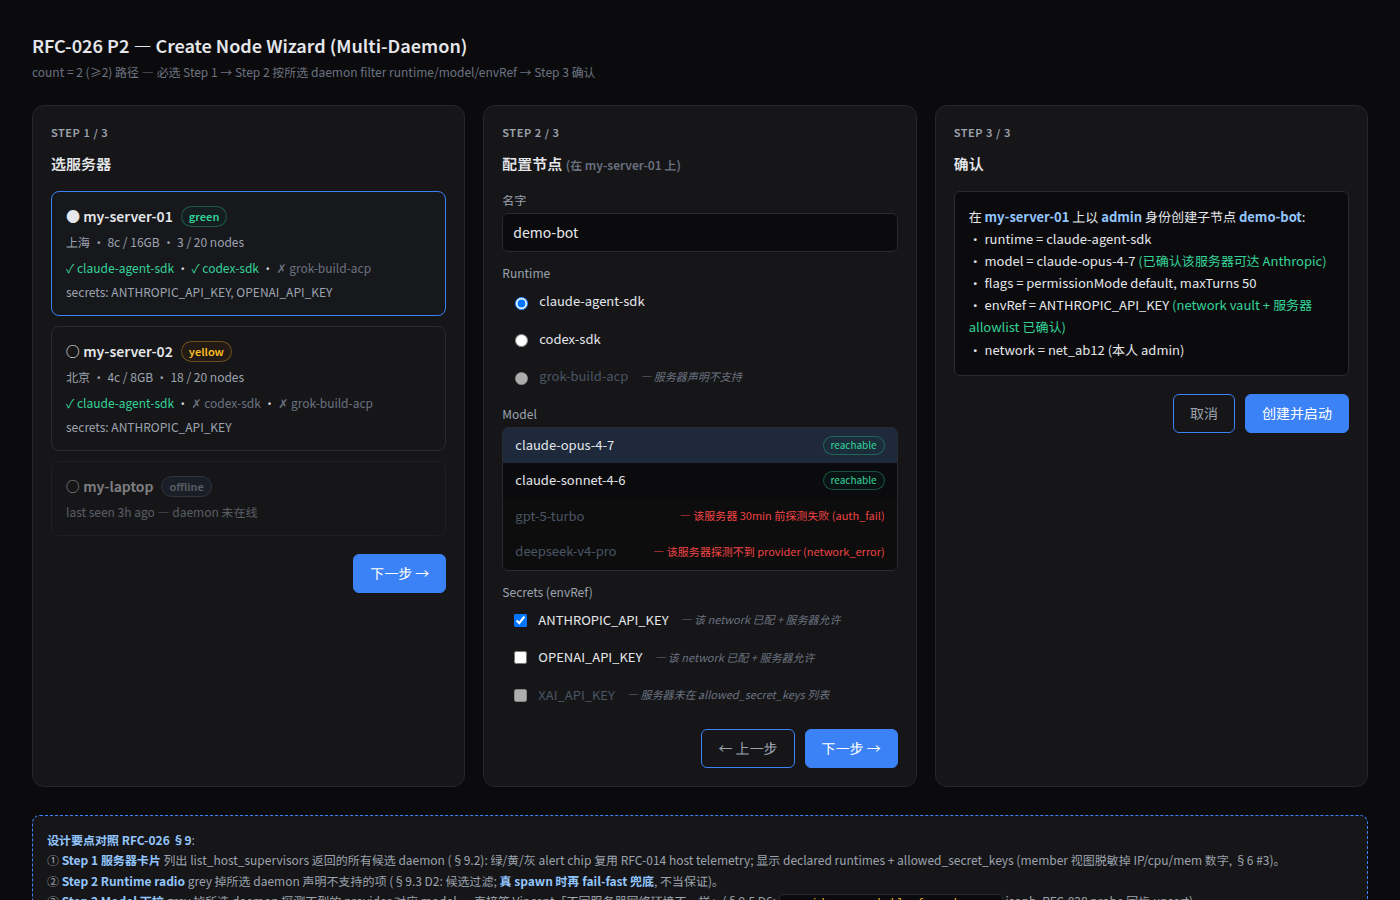
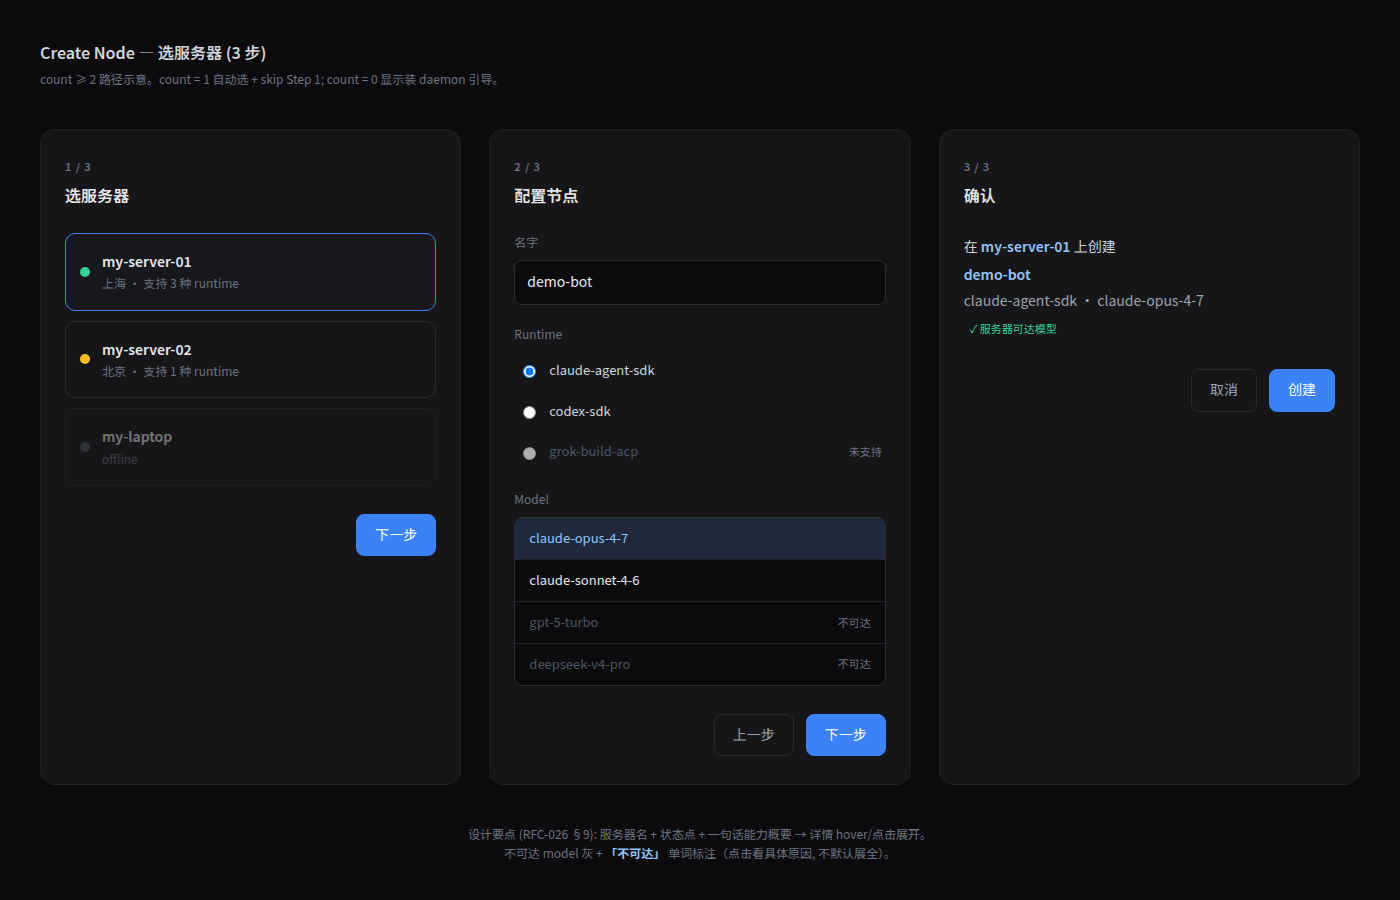
docs(rfc-026 v5): wizard mockup v2 — Vincent ask 「搞的简洁点」
v1 mockup had too much info per card (runtimes list + secrets list +
telemetry numbers + alert chip + node count all visible). Vincent
approved direction but asked for visual精简.

v2 changes:
  - Server card: name + status dot + one-liner ("支持 N 种 runtime")
    only. Telemetry IP/cpu/mem moved to second-tier (hover/click).
  - Runtime radio: unsupported tooltip shortened from
    "服务器声明不支持" to one word "未支持".
  - Model dropdown: reachable items shown plainly (no extra chip),
    unreachable items shown with "不可达" single-word marker
    (detailed reason auth_fail/network_error/timeout moved to click
    expand, not default tooltip).
  - Step 3 confirm: 3 lines instead of 5-line bullet summary.
  - More whitespace (panel padding 28px, gap 28px, fewer borders).
  - CSS grid auto-stacks on narrow viewport (mobile Vincent).
  - Annotation block at bottom shortened to 2-line designer note.

§9.4 RFC text added explicit「视觉精简原则」block citing Vincent's
feedback. PNG re-rendered 1400x900.

D1-D6 设计 + 三态流不变, 只视觉精简。

diff --git a/docs/rfcs/assets/rfc-026-p2-wizard-mockup.html b/docs/rfcs/assets/rfc-026-p2-wizard-mockup.html
@@ -2,253 +2,196 @@
 <html lang="zh">
 <head>
 <meta charset="utf-8">
-<title>RFC-026 P2 — Create Node Wizard Mockup</title>
+<title>RFC-026 P2 — Create Node Wizard Mockup (v2 simplified)</title>
 <style>
   * { box-sizing: border-box; }
   body {
-    margin: 0; padding: 32px;
-    font: 14px/1.5 -apple-system, "Segoe UI", Roboto, "Microsoft YaHei", sans-serif;
+    margin: 0; padding: 40px;
+    font: 14px/1.6 -apple-system, "Segoe UI", Roboto, "Microsoft YaHei", sans-serif;
     background: #0b0b0d; color: #e5e7eb;
   }
-  h1 { font-size: 18px; font-weight: 600; margin: 0 0 4px; }
-  .subtitle { color: #6b7280; font-size: 12px; margin-bottom: 24px; }
-  .row { display: grid; grid-template-columns: 1fr 1fr 1fr; gap: 18px; }
+  h1 { font-size: 16px; font-weight: 600; margin: 0 0 4px; color: #d1d5db; }
+  .sub { color: #6b7280; font-size: 12px; margin-bottom: 40px; }
+  .row { display: grid; grid-template-columns: 1fr 1fr 1fr; gap: 28px; }
   .panel {
-    background: #161618; border: 1px solid #26262b; border-radius: 12px;
-    padding: 18px;
+    background: #161618; border: 1px solid #1f1f24; border-radius: 14px;
+    padding: 28px 24px;
   }
-  .step-label {
-    color: #9ca3af; font-size: 11px; font-weight: 600;
-    letter-spacing: 0.05em; text-transform: uppercase;
-    margin-bottom: 12px;
+  .step {
+    color: #6b7280; font-size: 11px; font-weight: 600;
+    letter-spacing: 0.08em; margin-bottom: 8px;
   }
-  .step-title { font-size: 15px; font-weight: 600; margin-bottom: 16px; }
-  /* Server card */
-  .server-card {
-    border: 1px solid #2a2a30; border-radius: 8px; padding: 14px;
-    margin-bottom: 10px; cursor: pointer; transition: border-color .15s;
+  .step-title { font-size: 16px; font-weight: 600; margin-bottom: 24px; }
+
+  /* Server pick — minimal cards */
+  .srv {
+    display: flex; align-items: center; gap: 12px;
+    padding: 16px 14px; border-radius: 10px;
+    border: 1px solid #2a2a30; margin-bottom: 10px;
+    cursor: pointer; transition: border-color .15s;
   }
-  .server-card:hover { border-color: #3b82f6; }
-  .server-card.selected { border-color: #3b82f6; background: #1e293b22; }
-  .server-card.dim { opacity: 0.5; cursor: not-allowed; }
-  .server-name { font-weight: 600; display: flex; align-items: center; gap: 8px; }
-  .chip {
-    font-size: 11px; padding: 1px 7px; border-radius: 999px;
-    border: 1px solid;
+  .srv:hover { border-color: #4b5563; }
+  .srv.on { border-color: #3b82f6; background: #1e293b22; }
+  .srv.off { opacity: 0.45; cursor: not-allowed; }
+  .dot {
+    width: 10px; height: 10px; border-radius: 50%;
+    flex-shrink: 0;
   }
-  .chip.green { color: #34d399; border-color: #34d39955; background: #064e3b22; }
-  .chip.yellow { color: #fbbf24; border-color: #fbbf2455; background: #78350f22; }
-  .chip.gray { color: #9ca3af; border-color: #4b5563; background: #1f2937; }
-  .server-meta { font-size: 12px; color: #9ca3af; margin-top: 6px; }
-  .runtime-list { font-size: 12px; color: #d1d5db; margin-top: 8px; }
-  .runtime-list .ok { color: #34d399; }
-  .runtime-list .bad { color: #6b7280; }
+  .dot.green  { background: #34d399; }
+  .dot.yellow { background: #fbbf24; }
+  .dot.gray   { background: #4b5563; }
+  .srv-body { flex: 1; min-width: 0; }
+  .srv-name { font-weight: 600; font-size: 14px; }
+  .srv-hint { font-size: 12px; color: #6b7280; margin-top: 2px; }
+
   /* Form */
-  label { display: block; font-size: 12px; color: #9ca3af; margin: 12px 0 4px; }
+  label.fld { display: block; font-size: 12px; color: #6b7280; margin: 20px 0 8px; }
   input[type=text], select {
-    width: 100%; padding: 8px 10px;
+    width: 100%; padding: 10px 12px;
     background: #0b0b0d; color: #e5e7eb;
-    border: 1px solid #2a2a30; border-radius: 6px;
-    font: inherit;
+    border: 1px solid #2a2a30; border-radius: 8px; font: inherit;
   }
-  .radio-group { display: flex; flex-direction: column; gap: 6px; }
-  .radio-group label.opt {
-    display: flex; align-items: center; gap: 8px; cursor: pointer;
-    padding: 6px 8px; border-radius: 6px;
-    color: #e5e7eb; font-size: 13px; margin: 0;
+
+  .options { display: flex; flex-direction: column; gap: 4px; }
+  .opt {
+    display: flex; align-items: center; gap: 10px; cursor: pointer;
+    padding: 8px 4px; color: #d1d5db; font-size: 13px;
   }
-  .radio-group label.opt.disabled {
-    color: #4b5563; cursor: not-allowed;
+  .opt.dis { color: #4b5563; cursor: not-allowed; }
+  .why { font-size: 11px; color: #6b7280; margin-left: auto; }
+
+  .models {
+    border: 1px solid #2a2a30; border-radius: 8px; background: #0b0b0d;
+    overflow: hidden;
   }
-  .tooltip { font-size: 11px; color: #6b7280; margin-left: 4px; font-style: italic; }
-  /* Model dropdown opened state */
-  .dropdown {
-    border: 1px solid #2a2a30; border-radius: 6px; background: #0b0b0d;
-    margin-top: 4px; max-height: 180px; overflow: hidden;
+  .m {
+    padding: 10px 14px; font-size: 13px; cursor: pointer;
+    display: flex; align-items: center; justify-content: space-between;
   }
-  .dropdown .item {
-    padding: 8px 12px; font-size: 13px; cursor: pointer; display: flex;
-    align-items: center; justify-content: space-between;
-  }
-  .dropdown .item.selected { background: #1e293b; }
-  .dropdown .item.disabled { color: #4b5563; cursor: not-allowed; background: #1115; }
-  .dropdown .item .reach-note {
-    font-size: 11px; color: #ef4444;
-  }
-  /* Confirm */
+  .m.on { background: #1e293b; color: #93c5fd; }
+  .m.dis { color: #4b5563; cursor: not-allowed; }
+  .m + .m { border-top: 1px solid #1f1f24; }
+  .m .reason { font-size: 11px; color: #6b7280; }
+
+  /* Step 3 confirm */
   .summary {
-    font-size: 13px; background: #0b0b0d; border: 1px solid #2a2a30;
-    border-radius: 6px; padding: 14px; line-height: 1.7;
+    font-size: 14px; line-height: 1.9; color: #d1d5db;
   }
-  .summary b { color: #93c5fd; }
-  .btns { margin-top: 18px; display: flex; gap: 10px; justify-content: flex-end; }
+  .summary b { color: #93c5fd; font-weight: 600; }
+  .summary .check {
+    color: #34d399; font-size: 11px; margin-left: 6px;
+  }
+
+  .btns {
+    margin-top: 28px; display: flex; gap: 12px; justify-content: flex-end;
+  }
   .btn {
-    padding: 8px 16px; border-radius: 6px; border: 1px solid #3b82f6;
+    padding: 9px 18px; border-radius: 8px; border: 1px solid #3b82f6;
     background: #3b82f6; color: white; font: inherit; cursor: pointer;
   }
-  .btn.secondary { background: transparent; color: #9ca3af; border-color: #3b82f6; }
-  /* annotations */
-  .annot {
-    margin-top: 28px; font-size: 12px; color: #9ca3af;
-    background: #161618; border: 1px dashed #3b82f6; border-radius: 8px;
-    padding: 14px; line-height: 1.7;
+  .btn.ghost {
+    background: transparent; color: #9ca3af; border-color: #2a2a30;
   }
-  .annot b { color: #93c5fd; }
-  .annot code {
-    background: #0b0b0d; border: 1px solid #2a2a30; padding: 1px 5px;
-    border-radius: 4px; font-size: 11px; color: #fbbf24;
+
+  .note {
+    margin-top: 40px; font-size: 12px; color: #6b7280;
+    text-align: center;
   }
+  .note b { color: #93c5fd; }
 </style>
 </head>
 <body>
-<h1>RFC-026 P2 — Create Node Wizard (Multi-Daemon)</h1>
-<div class="subtitle">
-  count = 2 (≥2) 路径 — 必选 Step 1 → Step 2 按所选 daemon filter runtime/model/envRef → Step 3 确认
-</div>
+<h1>Create Node — 选服务器 (3 步)</h1>
+<div class="sub">count ≥ 2 路径示意。count = 1 自动选 + skip Step 1; count = 0 显示装 daemon 引导。</div>
 
 <div class="row">
 
   <!-- ============== STEP 1 ============== -->
   <div class="panel">
-    <div class="step-label">Step 1 / 3</div>
+    <div class="step">1 / 3</div>
     <div class="step-title">选服务器</div>
 
-    <div class="server-card selected">
-      <div class="server-name">
-        ● my-server-01
-        <span class="chip green">green</span>
-      </div>
-      <div class="server-meta">
-        上海 · 8c / 16GB · 3 / 20 nodes
-      </div>
-      <div class="runtime-list">
-        <span class="ok">✓ claude-agent-sdk</span> ·
-        <span class="ok">✓ codex-sdk</span> ·
-        <span class="bad">✗ grok-build-acp</span>
-      </div>
-      <div class="server-meta">
-        secrets: ANTHROPIC_API_KEY, OPENAI_API_KEY
+    <div class="srv on">
+      <span class="dot green"></span>
+      <div class="srv-body">
+        <div class="srv-name">my-server-01</div>
+        <div class="srv-hint">上海 · 支持 3 种 runtime</div>
       </div>
     </div>
 
-    <div class="server-card">
-      <div class="server-name">
-        ○ my-server-02
-        <span class="chip yellow">yellow</span>
-      </div>
-      <div class="server-meta">
-        北京 · 4c / 8GB · 18 / 20 nodes
-      </div>
-      <div class="runtime-list">
-        <span class="ok">✓ claude-agent-sdk</span> ·
-        <span class="bad">✗ codex-sdk</span> ·
-        <span class="bad">✗ grok-build-acp</span>
-      </div>
-      <div class="server-meta">
-        secrets: ANTHROPIC_API_KEY
+    <div class="srv">
+      <span class="dot yellow"></span>
+      <div class="srv-body">
+        <div class="srv-name">my-server-02</div>
+        <div class="srv-hint">北京 · 支持 1 种 runtime</div>
       </div>
     </div>
 
-    <div class="server-card dim">
-      <div class="server-name">
-        ○ my-laptop
-        <span class="chip gray">offline</span>
-      </div>
-      <div class="server-meta">
-        last seen 3h ago — daemon 未在线
+    <div class="srv off">
+      <span class="dot gray"></span>
+      <div class="srv-body">
+        <div class="srv-name">my-laptop</div>
+        <div class="srv-hint">offline</div>
       </div>
     </div>
 
     <div class="btns">
-      <button class="btn">下一步 →</button>
+      <button class="btn">下一步</button>
     </div>
   </div>
 
   <!-- ============== STEP 2 ============== -->
   <div class="panel">
-    <div class="step-label">Step 2 / 3</div>
-    <div class="step-title">配置节点 <span style="font-size:12px;color:#6b7280">(在 my-server-01 上)</span></div>
+    <div class="step">2 / 3</div>
+    <div class="step-title">配置节点</div>
 
-    <label>名字</label>
+    <label class="fld">名字</label>
     <input type="text" value="demo-bot">
 
-    <label>Runtime</label>
-    <div class="radio-group">
+    <label class="fld">Runtime</label>
+    <div class="options">
       <label class="opt"><input type="radio" checked> claude-agent-sdk</label>
       <label class="opt"><input type="radio"> codex-sdk</label>
-      <label class="opt disabled">
-        <input type="radio" disabled> grok-build-acp
-        <span class="tooltip">— 服务器声明不支持</span>
-      </label>
+      <label class="opt dis"><input type="radio" disabled> grok-build-acp <span class="why">未支持</span></label>
     </div>
 
-    <label>Model</label>
-    <div class="dropdown">
-      <div class="item selected">
-        claude-opus-4-7
-        <span class="chip green" style="font-size:10px">reachable</span>
-      </div>
-      <div class="item">
-        claude-sonnet-4-6
-        <span class="chip green" style="font-size:10px">reachable</span>
-      </div>
-      <div class="item disabled">
-        gpt-5-turbo
-        <span class="reach-note">— 该服务器 30min 前探测失败 (auth_fail)</span>
-      </div>
-      <div class="item disabled">
-        deepseek-v4-pro
-        <span class="reach-note">— 该服务器探测不到 provider (network_error)</span>
-      </div>
-    </div>
-
-    <label>Secrets (envRef)</label>
-    <div class="radio-group">
-      <label class="opt"><input type="checkbox" checked> ANTHROPIC_API_KEY <span class="tooltip">— 该 network 已配 + 服务器允许</span></label>
-      <label class="opt"><input type="checkbox"> OPENAI_API_KEY <span class="tooltip">— 该 network 已配 + 服务器允许</span></label>
-      <label class="opt disabled">
-        <input type="checkbox" disabled> XAI_API_KEY
-        <span class="tooltip">— 服务器未在 allowed_secret_keys 列表</span>
-      </label>
+    <label class="fld">Model</label>
+    <div class="models">
+      <div class="m on">claude-opus-4-7</div>
+      <div class="m">claude-sonnet-4-6</div>
+      <div class="m dis">gpt-5-turbo <span class="reason">不可达</span></div>
+      <div class="m dis">deepseek-v4-pro <span class="reason">不可达</span></div>
     </div>
 
     <div class="btns">
-      <button class="btn secondary">← 上一步</button>
-      <button class="btn">下一步 →</button>
+      <button class="btn ghost">上一步</button>
+      <button class="btn">下一步</button>
     </div>
   </div>
 
   <!-- ============== STEP 3 ============== -->
   <div class="panel">
-    <div class="step-label">Step 3 / 3</div>
+    <div class="step">3 / 3</div>
     <div class="step-title">确认</div>
 
     <div class="summary">
-      在 <b>my-server-01</b> 上以 <b>admin</b> 身份创建子节点 <b>demo-bot</b>:
-      <br>· runtime = claude-agent-sdk
-      <br>· model = claude-opus-4-7 <span style="color:#34d399">(已确认该服务器可达 Anthropic)</span>
-      <br>· flags = permissionMode default, maxTurns 50
-      <br>· envRef = ANTHROPIC_API_KEY <span style="color:#34d399">(network vault + 服务器 allowlist 已确认)</span>
-      <br>· network = net_ab12 (本人 admin)
+      在 <b>my-server-01</b> 上创建
+      <br><b>demo-bot</b>
+      <br><span style="color:#9ca3af">claude-agent-sdk · claude-opus-4-7</span>
+      <br><span class="check">✓ 服务器可达模型</span>
     </div>
 
     <div class="btns">
-      <button class="btn secondary">取消</button>
-      <button class="btn">创建并启动</button>
+      <button class="btn ghost">取消</button>
+      <button class="btn">创建</button>
     </div>
   </div>
 
 </div>
 
-<div class="annot">
-  <b>设计要点对照 RFC-026 §9</b>:
-  <br>① <b>Step 1 服务器卡片</b> 列出 list_host_supervisors 返回的所有候选 daemon (§9.2):
-     绿/黄/灰 alert chip 复用 RFC-014 host telemetry; 显示 declared runtimes + allowed_secret_keys (member 视图脱敏掉 IP/cpu/mem 数字, §6 #3)。
-  <br>② <b>Step 2 Runtime radio</b> grey 掉所选 daemon 声明不支持的项 (§9.3 D2: 候选过滤; <b>真 spawn 时再 fail-fast 兜底</b>, 不当保证)。
-  <br>③ <b>Step 2 Model 下拉</b> grey 掉所选 daemon 探测不到的 provider 对应 model — 直接答 Vincent「不同服务器网络环境不一样」(§9.5 D6: <code>providers.reachable_from_daemons</code> jsonb, RFC-028 probe 同步 upsert)。
-  <br>④ <b>Step 2 Secrets</b> grey 掉所选 daemon 不在 <code>allowed_secret_keys</code> 列表的 key (§9.3 D5: per-daemon env allowlist, daemon-side validate-on-pull 兜底, 仍可拒 <code>daemon_env_key_missing</code>)。
-  <br>⑤ <b>三态切换</b>: count=0 → 替换整 wizard 成空状态 + 装 daemon 命令; count=1 → 自动选第一个 + skip Step 1 直接 Step 2 (保 P1 quick path); count≥2 → 必选 Step 1 (本图所示)。详 §9.4。
-  <br>⑥ <b>失败兜底</b>: 选 daemon 后 mid-dispatch offline → hub fail-fast + sweeper revoke; daemon 声明 runtime 但 spawn 挂 → <code>runtime_capability_check_failed</code> 显式报错。详 §9.6。
+<div class="note">
+  设计要点 (RFC-026 §9): 服务器名 + 状态点 + 一句话能力概要 → 详情 hover/点击展开。
+  <br>不可达 model 灰 + <b>「不可达」</b> 单词标注（点击看具体原因, 不默认展全）。
 </div>
 
 </body>

diff --git a/docs/rfcs/RFC-026-create-node-host-daemon.md b/docs/rfcs/RFC-026-create-node-host-daemon.md
@@ -1023,11 +1023,18 @@ daemon 不能仅凭 `runtimes_supported` 声明就报 success。
 
 ### 9.4 Wizard 三态流
 
-**Mockup (count ≥ 2 路径, 三步并排)**:
+**Mockup (count ≥ 2 路径, 三步并排, v2 精简版)**:
 
 ![RFC-026 P2 Create Node Wizard Mockup](./assets/rfc-026-p2-wizard-mockup.png)
 
 源: [`assets/rfc-026-p2-wizard-mockup.html`](./assets/rfc-026-p2-wizard-mockup.html) (静态 HTML, 浏览器直接打开; PNG 是 1400×900 headless 渲染)。
+
+视觉精简原则 (v2, Vincent: 「搞的简洁点」):
+
+- **服务器卡 = 名 + 状态点 + 一句话能力概要** (「支持 N 种 runtime」), 详情 hover/点击展开,不默认全摊。telemetry IP/cpu/mem 移到二级 (admin 视图)。
+- **Model 不可达 = 灰 + 「不可达」单词标注**, 详细原因 (auth_fail/network_error/timeout) 点击或 hover 展开。
+- **留白多 + 元素少**, 三栏在手机看自动堆叠 (CSS grid-template-columns 退化 `1fr 1fr 1fr` → `1fr`)。
+- **底栏 affordance hint**: 一行设计要点说明默认折叠/展开的关系。
 
 `count = 0` / `count = 1` 路径文字流见下:
 
